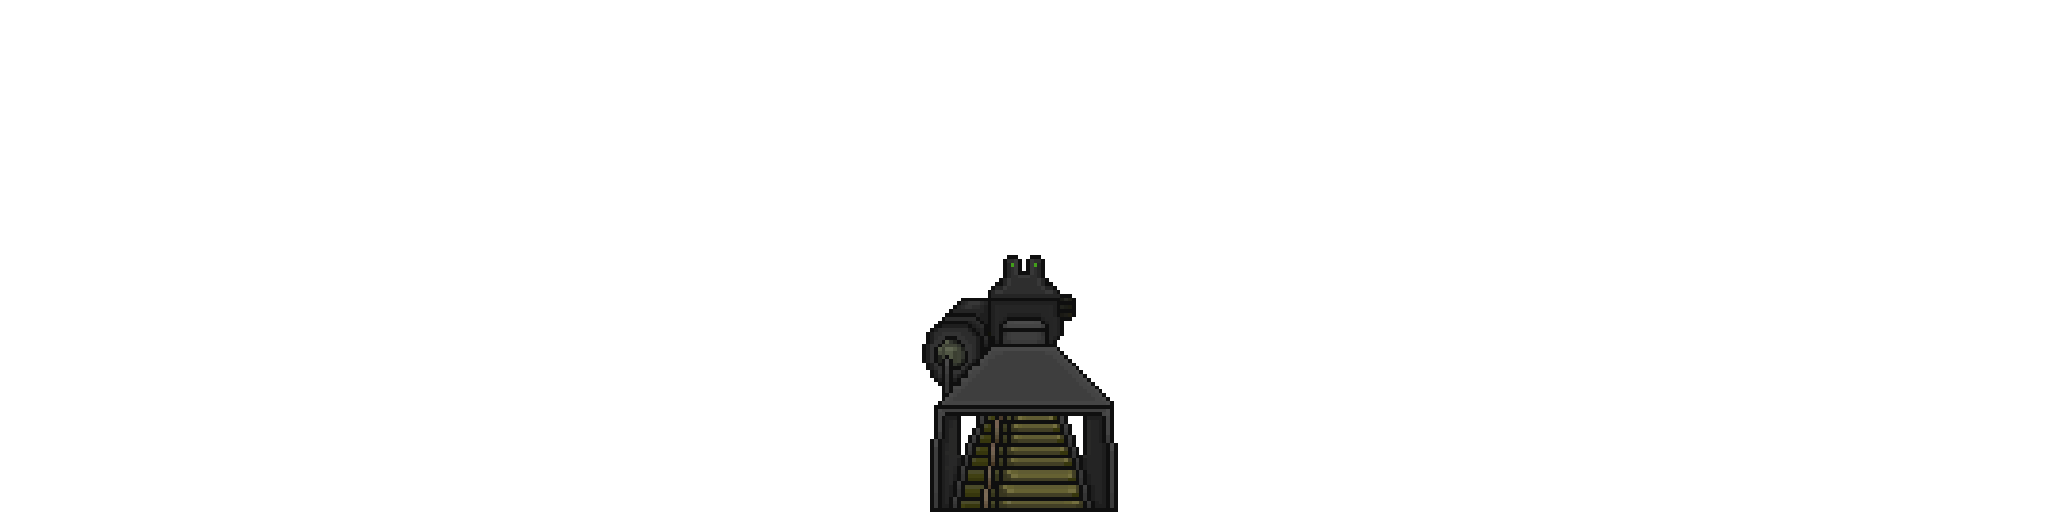
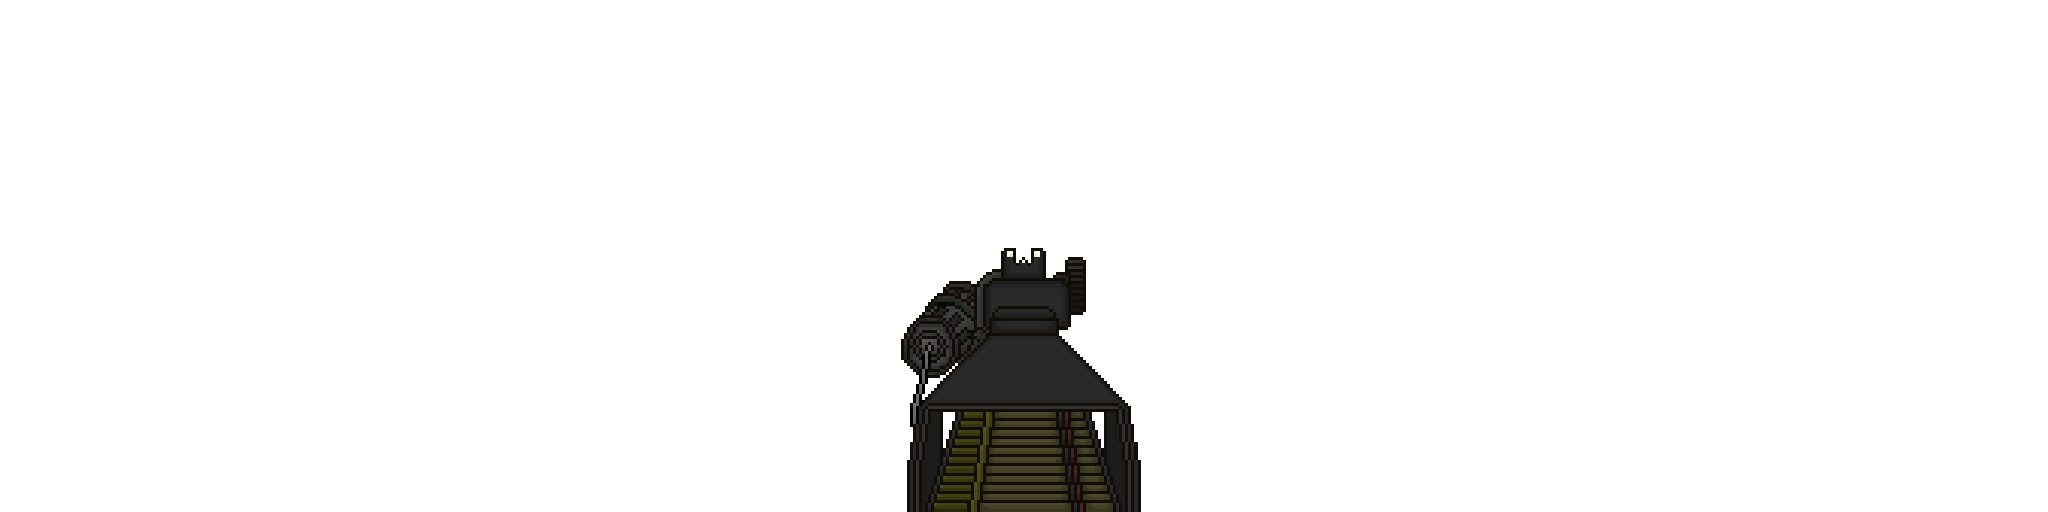
Added iron sight for Mini-Uzi and Scorpion; Updated iron sight for p90; Improved iron sight of MP5

Changed region(s): [[0.4375, 0.5, 0.5625, 1.0]]

diff --git a/src/DesnoGuns_Main.js b/src/DesnoGuns_Main.js
@@ -1590,8 +1590,10 @@ const MINI_UZI = {
 	fireRate: 2,
 	recoil: 3,
 	bulletSpeed: PISTOL_BULLET_SPEED,
-	accuracy: 2.5,
+	accuracy: 3,
 	zoomLevel: ZOOM_PISTOL,
+	hasAimImageLayer: true,
+	customAimImageLayerPath: "/images/desnoguns-scopes/miniuzi.png",
 	texture: "miniuzi",
 	ammo: 32,
 	smoke: 1,
@@ -1898,10 +1900,12 @@ const SKORPION = {
 	buttonType: BUTTON_TYPE_ON_TOUCH,
 	id: 502,
 	fireRate: 3,
-	recoil: 1.5,
+	recoil: 2,
 	bulletSpeed: PISTOL_BULLET_SPEED,
-	accuracy: 2.5,
+	accuracy: 5,
 	zoomLevel: ZOOM_PISTOL,
+	hasAimImageLayer: true,
+	customAimImageLayerPath: "/images/desnoguns-scopes/skorpion.png",
 	texture: "skorpion",
 	ammo: 20,
 	smoke: 1,
